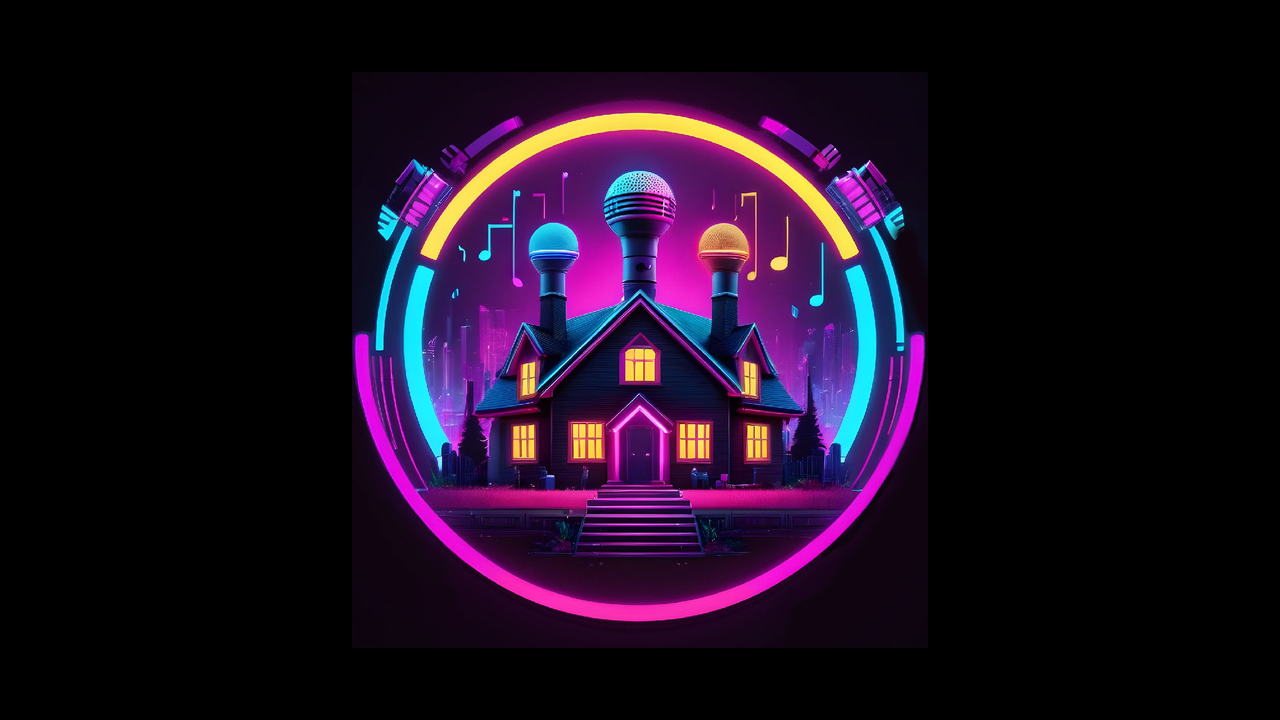
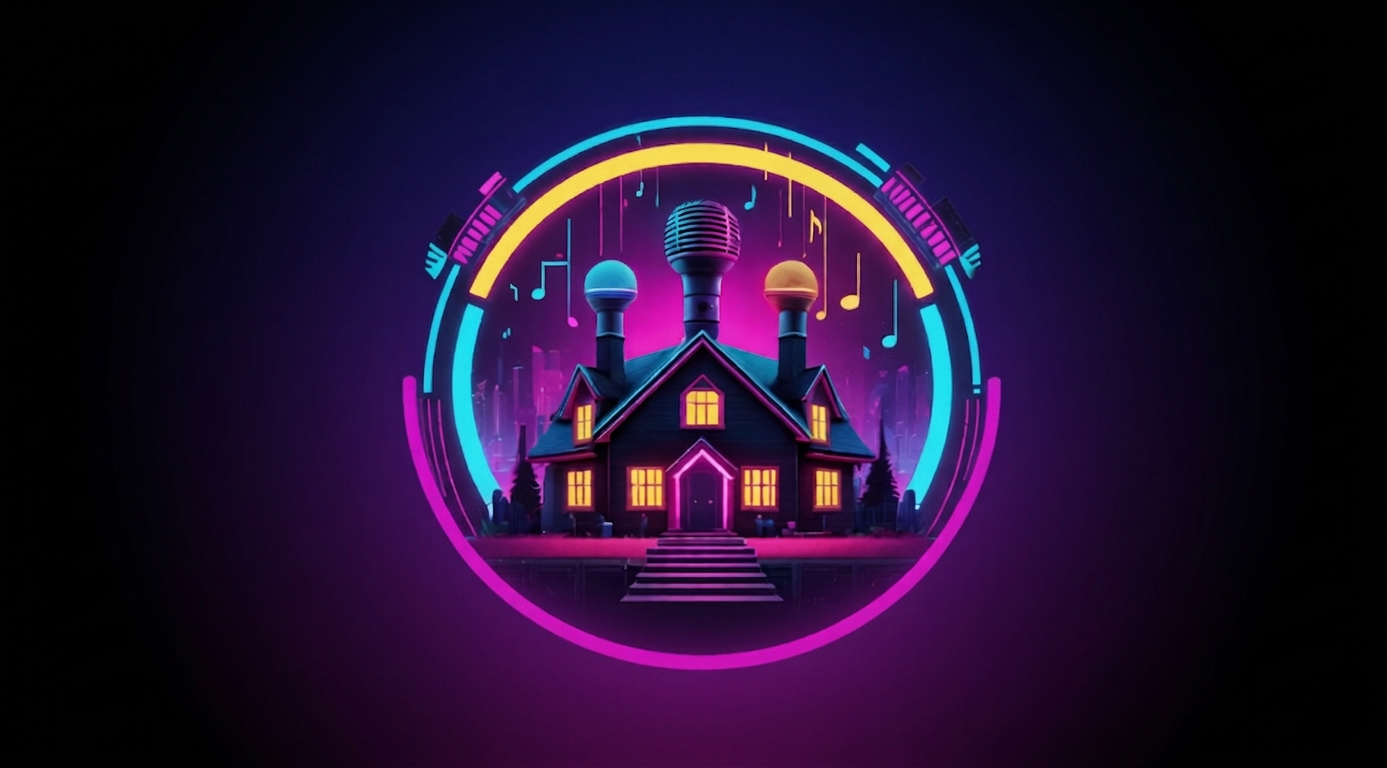
Move overlay text to individual OSDs
allows them to be reused for the placeholder screen
better rendering than using pillow for text
use permanently placeholder screen image

diff --git a/mpv/app.py b/mpv/app.py
@@ -7,10 +7,20 @@ import threading
 import time
 from pathlib import Path
 import qrcode
-from PIL import Image, ImageDraw, ImageFont
+from PIL import Image, ImageFont
 from flask import Flask, render_template, request, jsonify
 
 app = Flask(__name__)
+
+# ── Config ─────────────────────────────────────────────────────────────────────
+SHOW_QR = True   # Show QR code + URL overlay pair (top-left)
+OVERLAY_MARGIN_TOP = 0   # px from top edge in ASS 1920x1080 space
+
+# ── OSD ID constants ───────────────────────────────────────────────────────────
+OSD_URL        = 1   # URL text, paired with QR bitmap, top-left
+OSD_NOWPLAYING = 2   # "Now Playing: <title>" line, top-right
+OSD_TIMECODE   = 3   # "1:23 / 3:45 | Transpose: +2 | Vocals: 80%" line, top-right
+OSD_UPNEXT     = 4   # "Up Next: <title>", top-right
 
 # ── State ──────────────────────────────────────────────────────────────────────
 IPC_SOCKET = "/tmp/mpv-socket"
@@ -107,6 +117,24 @@ def send_overlay_command(cmd_dict):
                 _overlay_sock = None
 
 
+def send_osd(overlay_id, data, res_x=1920, res_y=1080):
+    """Send an ASS event string to a specific OSD overlay slot."""
+    send_overlay_command({
+        "command": {"name": "osd-overlay", "id": overlay_id,
+                    "format": "ass-events", "data": data,
+                    "res_x": res_x, "res_y": res_y}
+    })
+
+
+def clear_osd(overlay_id, res_x=1920, res_y=1080):
+    """Clear a specific OSD overlay slot."""
+    send_overlay_command({
+        "command": {"name": "osd-overlay", "id": overlay_id,
+                    "format": "none", "data": "",
+                    "res_x": res_x, "res_y": res_y}
+    })
+
+
 def close_overlay_sock():
     """Close the persistent overlay socket on shutdown."""
     global _overlay_sock
@@ -176,24 +204,6 @@ def send_mpv_query(cmd_dict):
         return None
 
 
-def generate_placeholder():
-    """Create a placeholder PNG with logo.jpg centered on a black background."""
-    logo = Image.open(LOGO_JPG)
-    # Use 1280x720 canvas, scale logo to fit within it with padding
-    canvas_w, canvas_h = 1280, 720
-    # Scale logo to fit within 80% of canvas, preserving aspect ratio
-    max_w, max_h = int(canvas_w * 0.8), int(canvas_h * 0.8)
-    ratio = min(max_w / logo.width, max_h / logo.height)
-    new_w, new_h = int(logo.width * ratio), int(logo.height * ratio)
-    logo = logo.resize((new_w, new_h), Image.LANCZOS)
-
-    img = Image.new("RGB", (canvas_w, canvas_h), "black")
-    x = (canvas_w - new_w) // 2
-    y = (canvas_h - new_h) // 2
-    img.paste(logo, (x, y))
-    img.save(PLACEHOLDER_PNG)
-
-
 def load_placeholder():
     """Load the placeholder PNG into the running MPV instance."""
     send_mpv_command({"command": ["loadfile", PLACEHOLDER_PNG]})
@@ -205,7 +215,10 @@ def end_song():
     load_placeholder()
     reset_state_defaults()
     send_qr_overlay()
-    send_nowplaying_overlay()
+    send_url_overlay()
+    clear_osd(OSD_NOWPLAYING)
+    clear_osd(OSD_TIMECODE)
+    send_upnext_overlay()
     poll_stop.set()
 
 
@@ -238,7 +251,8 @@ def start_mpv():
     load_placeholder()
     ensure_qr_png()
     send_qr_overlay()
-    send_nowplaying_overlay()
+    send_url_overlay()
+    send_upnext_overlay()
 
 
 def quit_mpv():
@@ -296,51 +310,23 @@ def _overlay_font_size(screen_h=None):
     if screen_h is None:
         screen_h = 1080
     qr_h = max(120, screen_h // 6)
-    return qr_h // 4.5
+    return qr_h // 3
 
 
 def send_qr_overlay():
-    """Send the QR code + URL text as a persistent overlay via overlay-add."""
+    """Send the QR code bitmap as a persistent overlay via overlay-add (no URL text)."""
+    if not SHOW_QR:
+        return
     # Query OSD height for sizing
     resp = send_mpv_query({"command": ["get_property", "osd-height"]})
     screen_h = resp.get("data") if resp and resp.get("data") is not None else 1080
     qr_h = max(120, screen_h // 6)
-    font_size = _overlay_font_size(screen_h)
 
     # Open QR code image and resize
     qr_img = Image.open(QR_CODE).convert("RGBA").resize((qr_h, qr_h))
 
-    # Render URL text beside it
-    url_text = get_server_url()
-    font = ImageFont.load_default(size=font_size)
-    # Try DejaVuSans fallback
-    for font_path in ["/usr/share/fonts/truetype/dejavu/DejaVuSans.ttf",
-                      "/usr/share/fonts/TTF/DejaVuSans.ttf"]:
-        try:
-            font = ImageFont.truetype(font_path, font_size)
-            break
-        except (OSError, IOError):
-            pass
-
-    draw = ImageDraw.Draw(qr_img)
-    bbox = draw.textbbox((0, 0), url_text, font=font)
-    text_w = bbox[2] - bbox[0]
-    text_h = bbox[3] - bbox[1]
-
-    # Compose combined RGBA image: QR on left, transparent background, URL text top-aligned to QR
-    gap = qr_h // 8
-    combined_w = qr_h + gap + text_w
-    combined_h = qr_h
-    combined = Image.new("RGBA", (combined_w, combined_h), (0, 0, 0, 0))
-    combined.paste(qr_img, (0, 0))
-
-    # Draw text top-aligned with the QR code
-    text_draw = ImageDraw.Draw(combined)
-    text_draw.text((qr_h + gap, 0), url_text, fill=(255, 255, 255, 255), font=font,
-                   stroke_width=2, stroke_fill=(0, 0, 0, 255))
-
     # Convert RGBA -> BGRA (swap R and B channels) for mpv overlay format
-    r, g, b, a = combined.split()
+    r, g, b, a = qr_img.split()
     bgra = Image.merge("RGBA", (b, g, r, a))
     bgra_bytes = bgra.tobytes()
 
@@ -351,8 +337,42 @@ def send_qr_overlay():
 
     # Send overlay-add command (fmt="bgra" is required between offset and w)
     send_overlay_command({
-        "command": ["overlay-add", 0, 0, 0, overlay_path, 0, "bgra", combined_w, combined_h, combined_w * 4]
+        "command": ["overlay-add", 0, 0, 0, overlay_path, 0, "bgra", qr_h, qr_h, qr_h * 4]
     })
+
+
+def send_url_overlay():
+    """Send the server URL text as an OSD overlay, positioned to the right of the QR image."""
+    if not SHOW_QR:
+        clear_osd(OSD_URL)
+        return
+    # Query screen height for sizing (same as QR uses)
+    resp = send_mpv_query({"command": ["get_property", "osd-height"]})
+    screen_h = resp.get("data") if resp and resp.get("data") is not None else 1080
+    resp_w = send_mpv_query({"command": ["get_property", "osd-width"]})
+    screen_w = resp_w.get("data") if resp_w and resp_w.get("data") is not None else 1920
+
+    qr_h = max(120, screen_h // 6)
+    font_size = _overlay_font_size(screen_h)
+
+    # Try DejaVuSans font, fall back to default
+    font = ImageFont.load_default(size=font_size)
+    for font_path in ["/usr/share/fonts/truetype/dejavu/DejaVuSans.ttf",
+                      "/usr/share/fonts/TTF/DejaVuSans.ttf"]:
+        try:
+            font = ImageFont.truetype(font_path, font_size)
+            break
+        except (OSError, IOError):
+            pass
+
+    url_text = get_server_url()
+    # Position to the right of QR (with 5px gap), vertically aligned to top.
+    # Convert actual pixel coordinates to ASS 1920x1080 space.
+    x = (qr_h + 10) * 1920 / screen_w
+    y = OVERLAY_MARGIN_TOP
+    # \an7 = top-left anchor (same top-edge semantics as \an9 for Now Playing)
+    data = f"{{\\an7\\pos({x},{y})\\fs{font_size}\\bord2\\c&HFFFFFF&}}{url_text}"
+    send_osd(OSD_URL, data)
 
 
 def _fmt_time(seconds):
@@ -361,51 +381,58 @@ def _fmt_time(seconds):
     return f"{m}:{s:02d}"
 
 
-def send_nowplaying_overlay():
-    """Send Now Playing / Up Next display via osd-overlay (ASS events, ID 1).
-    Uses command-as-object format: {"command": {"name": "osd-overlay", ...}}"""
-    # Query screen height for dynamic font sizing
+def _osd_screen_h():
+    """Query MPV osd-height, defaulting to 1080 on failure."""
     resp = send_mpv_query({"command": ["get_property", "osd-height"]})
-    screen_h = resp.get("data") if resp and resp.get("data") is not None else 1080
-    fs_title = _overlay_font_size(screen_h)
+    return resp.get("data") if resp and resp.get("data") is not None else 1080
 
-    next_path = state["video_path"]
-    show_up_next = next_path and next_path != state.get("playing_video_path")
-    next_name = get_filename_prefix(next_path) if show_up_next else ""
 
+def send_nowplaying_overlay():
+    """Send 'Now Playing: <title>' line via osd-overlay (OSD_NOWPLAYING, ID 2).
+    Displays the title only; clears if not playing."""
     if not state["playing"]:
-        if show_up_next:
-            data = f"{{\\an9\\fs24\\bord2\\c&HFFFFFF&}}Up Next: {next_name}"
-            send_overlay_command({
-                "command": {"name": "osd-overlay", "id": 1, "format": "ass-events",
-                            "data": data, "res_x": 1920, "res_y": 1080}
-            })
-        else:
-            send_overlay_command({
-                "command": {"name": "osd-overlay", "id": 1, "format": "none",
-                            "data": "", "res_x": 1920, "res_y": 1080}
-            })
+        clear_osd(OSD_NOWPLAYING)
         return
-
     name = get_filename_prefix(state.get("playing_video_path", ""))
+    fs = _overlay_font_size(_osd_screen_h())
+    data = f"{{\\an9\\pos(1920,{OVERLAY_MARGIN_TOP})\\fs{fs}\\bord2\\c&HFFFFFF&}}Now Playing: {name}"
+    send_osd(OSD_NOWPLAYING, data)
+
+
+def send_timecode_overlay():
+    """Send elapsed/total time + transpose + vocals via osd-overlay (OSD_TIMECODE, ID 3).
+    Clears when not playing."""
+    if not state["playing"]:
+        clear_osd(OSD_TIMECODE)
+        return
+    fs = _overlay_font_size(_osd_screen_h())
+    # Stack below Now Playing
+    y = OVERLAY_MARGIN_TOP + int(fs * 0.9)
+
     elapsed = _fmt_time(state["position"])
     total = _fmt_time(state["duration"])
     st = state["semitones"]
     st_str = f"+{st}st" if st > 0 else f"{st}st"
     vol_pct = int(state["vocal_volume"] * 100)
 
-    lines = [
-        f"{{\\an9\\fs{fs_title+10}\\bord2\\c&HFFFFFF&}}Now Playing: {name}",
-        f"{{\\an9\\fs{fs_title-5}\\bord1\\c&HCCCCCC&}}{elapsed} / {total}  |  Transpose: {st_str}  |  Vocals: {vol_pct}%",
-    ]
-    if show_up_next:
-        lines.append(f"{{\\an9\\fs{fs_title+5}\\bord2\\c&HFFFFFF&}}Up Next: {next_name}")
+    data = f"{{\\an9\\pos(1920,{y})\\fs{fs-15}\\bord1\\c&HCCCCCC&}}{elapsed} / {total}  |  Transpose: {st_str}  |  Vocals: {vol_pct}%"
+    send_osd(OSD_TIMECODE, data)
 
-    data = "\n".join(lines)
-    send_overlay_command({
-        "command": {"name": "osd-overlay", "id": 1, "format": "ass-events",
-                    "data": data, "res_x": 1920, "res_y": 1080}
-    })
+
+def send_upnext_overlay():
+    """Send 'Up Next: <title>' via osd-overlay (OSD_UPNEXT, ID 4).
+    Displays when next path differs from playing path; clears otherwise."""
+    next_path = state["video_path"]
+    show_up_next = next_path and next_path != state.get("playing_video_path")
+    if not show_up_next:
+        clear_osd(OSD_UPNEXT)
+        return
+    next_name = get_filename_prefix(next_path)
+    fs = _overlay_font_size(_osd_screen_h())
+    # Stack below Now Playing + Timecode lines
+    y = OVERLAY_MARGIN_TOP + int(fs * 0.9) + int((fs - 10) * 1.05)
+    data = f"{{\\an9\\pos(1920,{y})\\fs{fs-10}\\bord2\\c&HFFFFFF&}}Up Next: {next_name}"
+    send_osd(OSD_UPNEXT, data)
 
 
 def poll_position():
@@ -430,7 +457,7 @@ def poll_position():
 
         # Update elapsed time overlay every cycle
         if state["playing"]:
-            send_nowplaying_overlay()
+            send_timecode_overlay()
 
         # Detect window resize via OSD dimension change
         resp = send_mpv_query({"command": ["get_property", "osd-width"]})
@@ -443,7 +470,10 @@ def poll_position():
                 last_osd_w, last_osd_h = cur_w, cur_h
                 if state["playing"]:
                     send_qr_overlay()
+                    send_url_overlay()
                     send_nowplaying_overlay()
+                    send_timecode_overlay()
+                    send_upnext_overlay()
 
         poll_stop.wait(0.5)
 
@@ -463,7 +493,7 @@ def set_files():
     state["vocal_path"] = data.get("vocal")
     state["nonvocal_path"] = data.get("nonvocal")
     state["subtitle_path"] = data.get("subtitle")
-    send_nowplaying_overlay()
+    send_upnext_overlay()
     return jsonify({"ok": True})
 
 
@@ -507,8 +537,9 @@ def play():
         poll_thread.join(timeout=1)
     poll_thread = threading.Thread(target=poll_position, daemon=True)
     poll_thread.start()
-    send_qr_overlay()
     send_nowplaying_overlay()
+    send_timecode_overlay()
+    send_upnext_overlay()
     return jsonify({"ok": True})
 
 
@@ -557,7 +588,7 @@ def set_volume():
     if state["playing"]:
         fc = build_filter_complex(state["vocal_volume"], semitones_to_pitch(state["semitones"]))
         send_mpv_command({"command": ["set_property", "lavfi-complex", fc]})
-    send_nowplaying_overlay()
+    send_timecode_overlay()
     return jsonify({"ok": True})
 
 
@@ -568,7 +599,7 @@ def set_pitch():
     if state["playing"]:
         fc = build_filter_complex(state["vocal_volume"], semitones_to_pitch(state["semitones"]))
         send_mpv_command({"command": ["set_property", "lavfi-complex", fc]})
-    send_nowplaying_overlay()
+    send_timecode_overlay()
     return jsonify({"ok": True})
 
 
@@ -626,7 +657,6 @@ def browse():
 
 
 if __name__ == "__main__":
-    generate_placeholder()
     _debug = True
     # With debug=True the Werkzeug reloader spawns a parent watcher + child worker.
     # Only start MPV in the child (WERKZEUG_RUN_MAIN=true) to avoid two windows.
